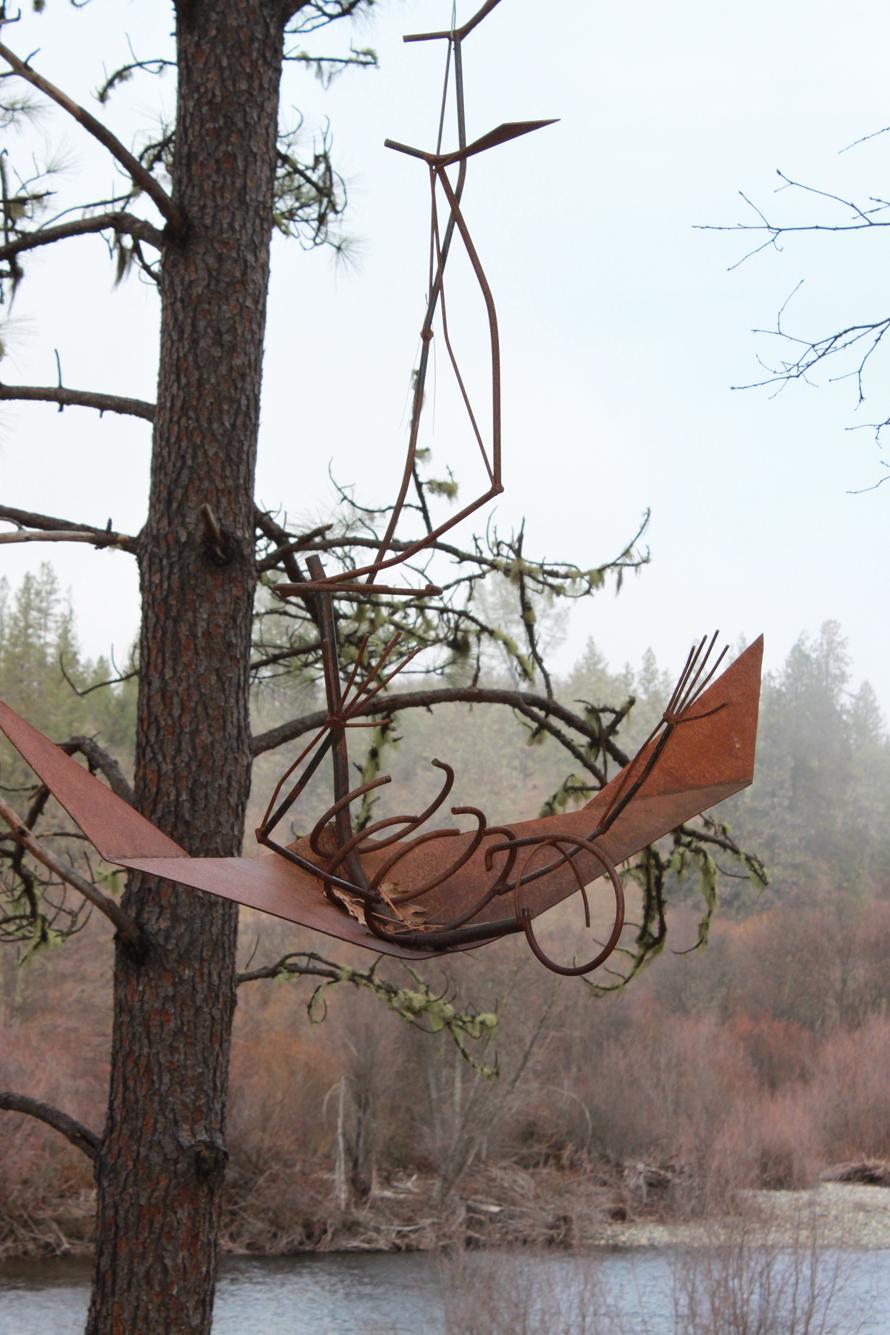
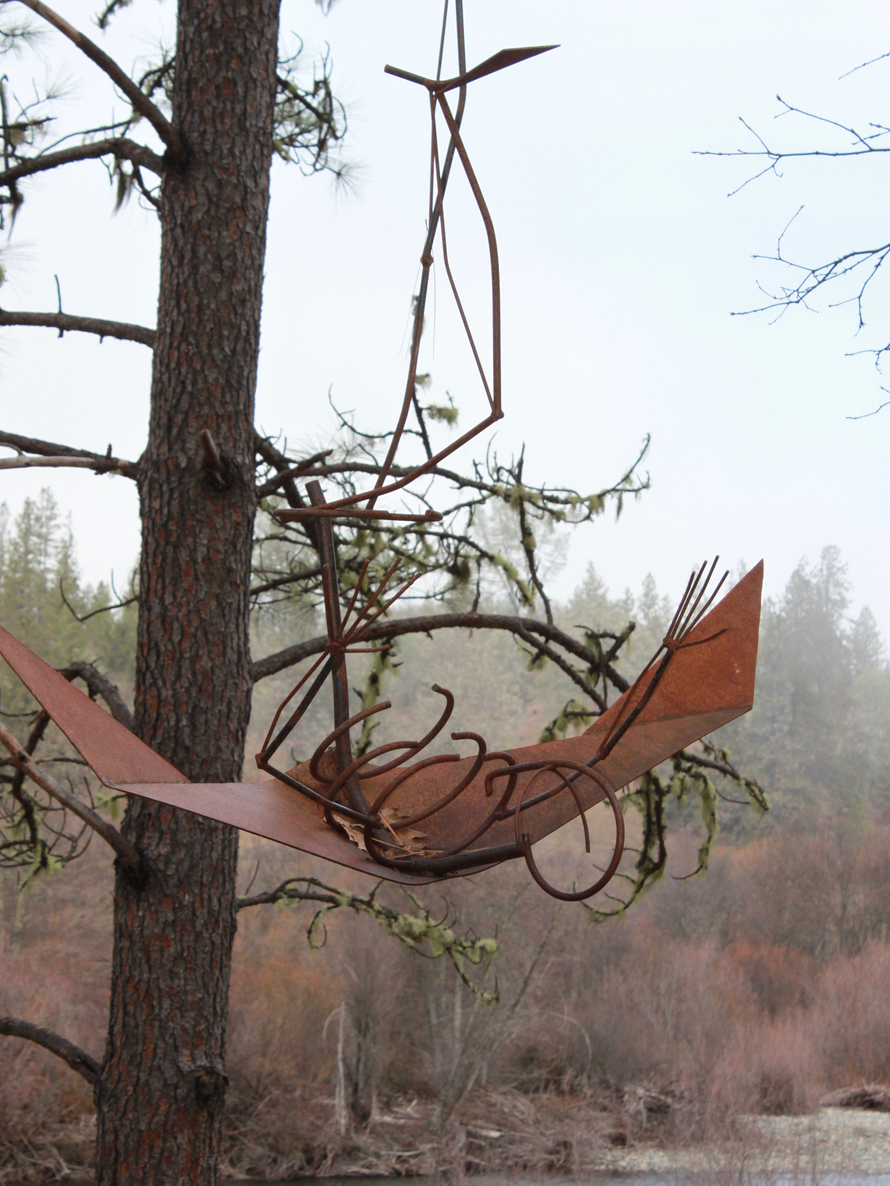
fixed image sizing

diff --git a/public/stylesheets/style.css b/public/stylesheets/style.css
@@ -24,6 +24,15 @@ h2{
 }
 .artboxes{
   width: 100%;
+  position: absolute;
+    top: 3%;
+    bottom: 0;
+    left: 0;
+    right: 0;
+}
+.artlist{
+  padding-top: 40%;
+  position: relative;
 }
 a{
  color: #F0E0D6;
